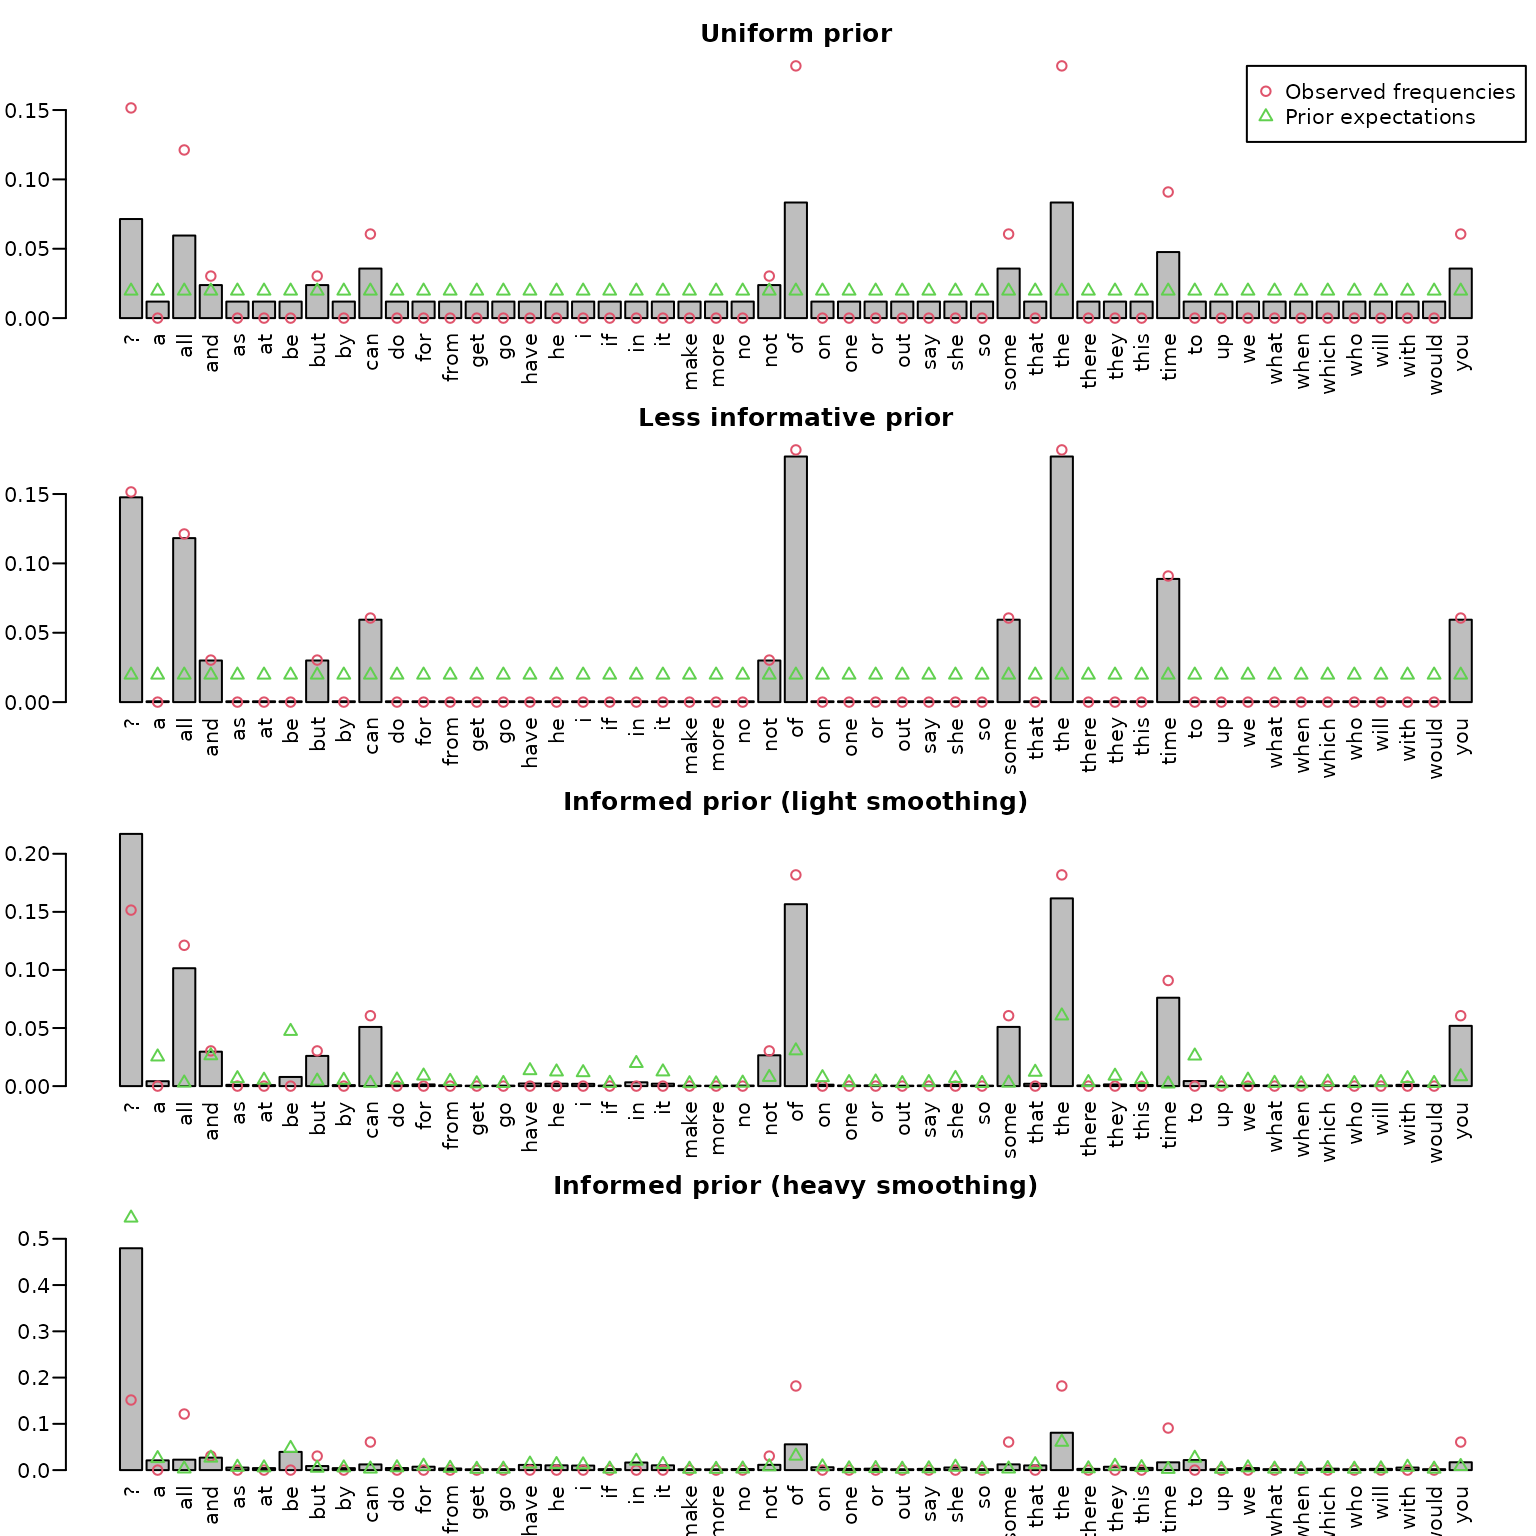
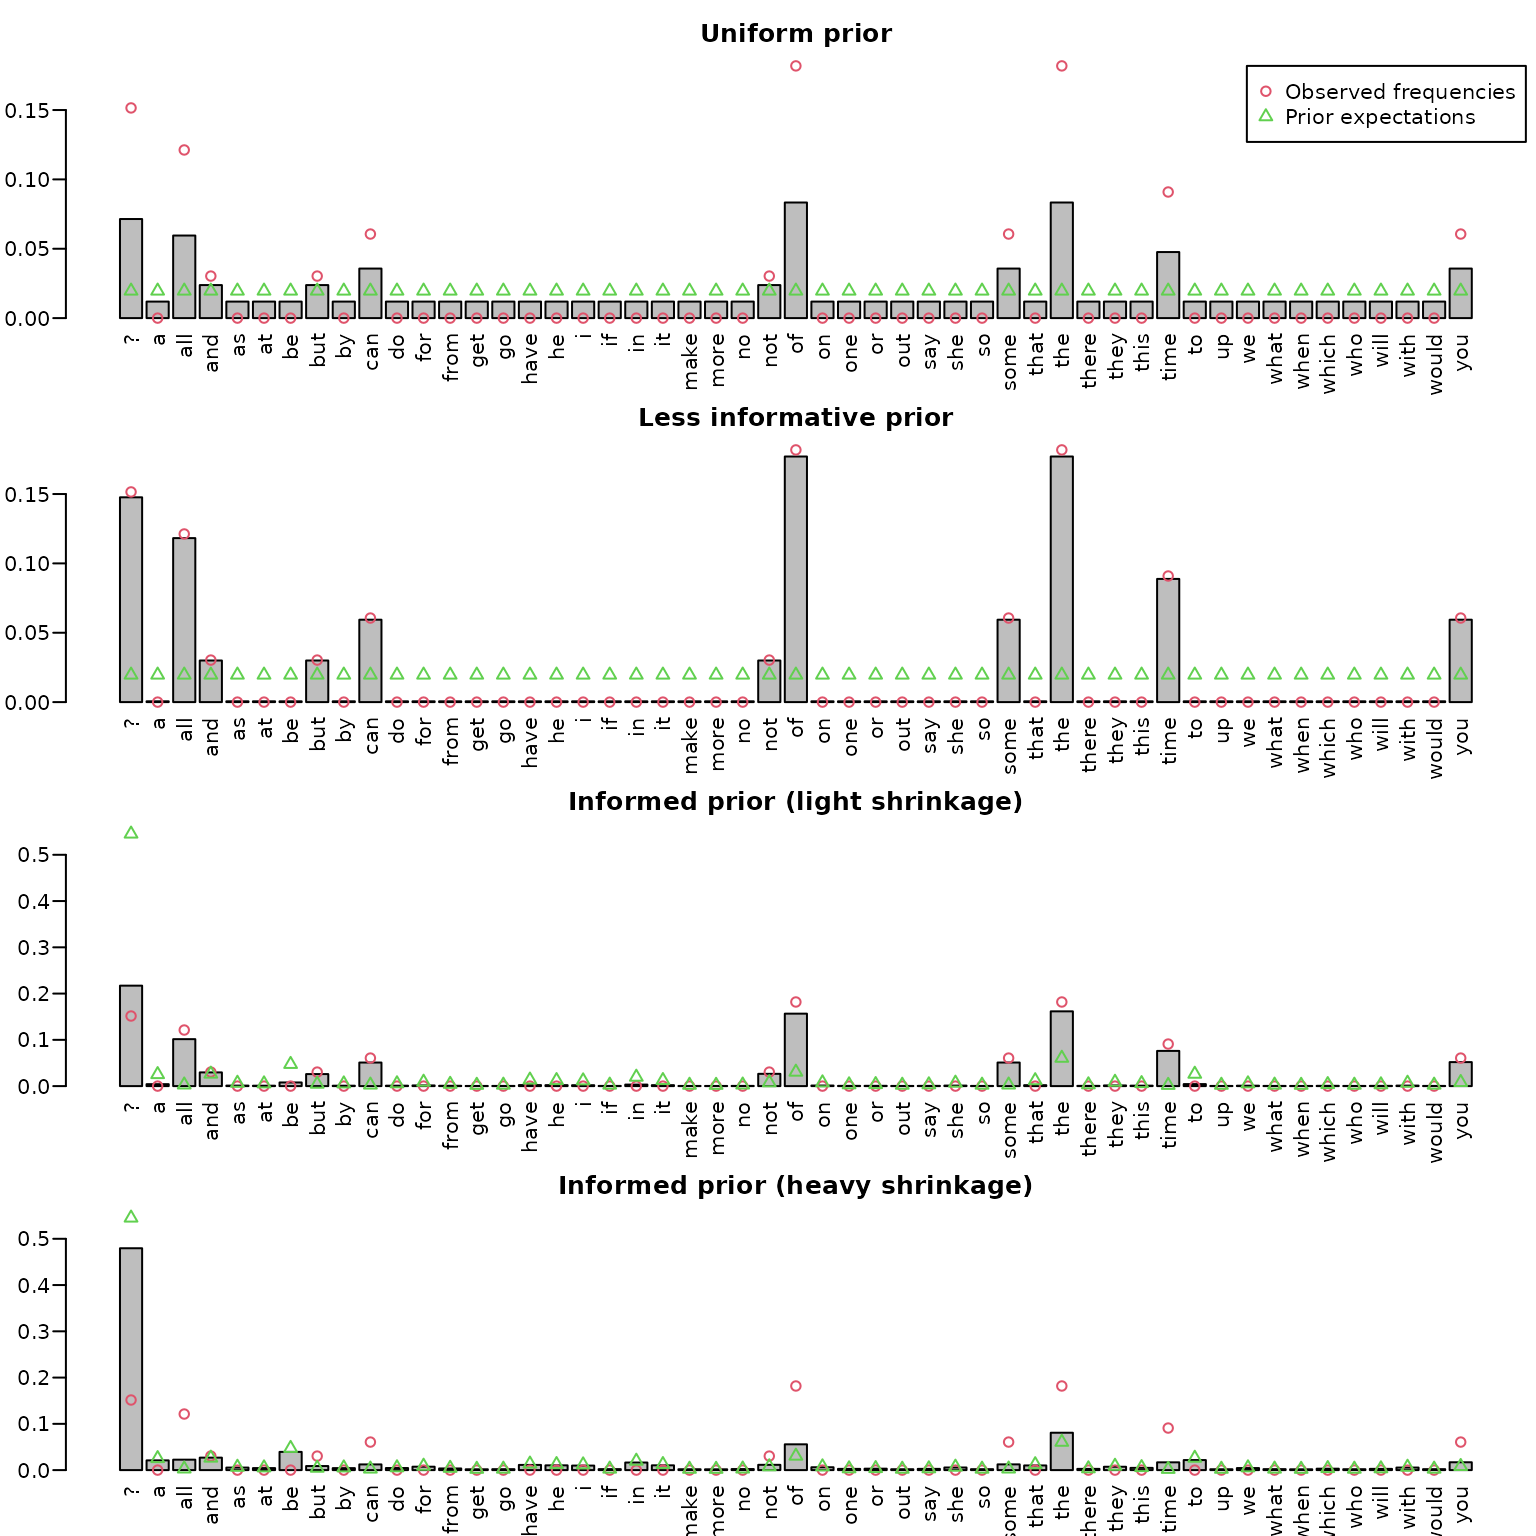
Deploying to gh-pages from @ gregorkastner/BayesianLearningCode@0169d79130a247fa5898df61fa52b95e505494d5 🚀

diff --git a/articles/Chapter03.html b/articles/Chapter03.html
@@ -610,7 +610,7 @@ the new pseudo-counts.</p>
 <span></span>
 <span><span class="va">post_informed_unnormalized</span> <span class="op">&lt;-</span> <span class="va">gamma0</span> <span class="op">+</span> <span class="va">counts</span></span>
 <span><span class="va">post_informed</span> <span class="op">&lt;-</span> <span class="va">post_informed_unnormalized</span> <span class="op">/</span> <span class="fu"><a href="https://rdrr.io/r/base/sum.html" class="external-link">sum</a></span><span class="op">(</span><span class="va">post_informed_unnormalized</span><span class="op">)</span></span></code></pre></div>
-<p>Alternatively, we might want to prefer heavier smoothing with respect
+<p>Alternatively, we might want to prefer heavier shrinkage with respect
 to the base rate (here, the overall word distribution in the English
 language). This can simply be accomplished by increasing the total
 number of pseudo-counts
@@ -644,16 +644,16 @@ circles.</p>
 <span><span class="fu"><a href="https://rdrr.io/r/graphics/title.html" class="external-link">title</a></span><span class="op">(</span><span class="st">"Less informative prior"</span><span class="op">)</span></span>
 <span></span>
 <span><span class="va">midpts</span> <span class="op">&lt;-</span> <span class="fu"><a href="https://rdrr.io/r/graphics/barplot.html" class="external-link">barplot</a></span><span class="op">(</span><span class="va">post_informed</span>, las <span class="op">=</span> <span class="fl">2</span>,</span>
-<span>                   ylim <span class="op">=</span> <span class="fu"><a href="https://rdrr.io/r/base/c.html" class="external-link">c</a></span><span class="op">(</span><span class="fl">0</span>, <span class="fu"><a href="https://rdrr.io/r/base/Extremes.html" class="external-link">max</a></span><span class="op">(</span><span class="va">counts</span><span class="op">/</span><span class="va">N</span>, <span class="va">post_informed</span><span class="op">)</span><span class="op">)</span><span class="op">)</span></span>
+<span>                   ylim <span class="op">=</span> <span class="fu"><a href="https://rdrr.io/r/base/c.html" class="external-link">c</a></span><span class="op">(</span><span class="fl">0</span>, <span class="fu"><a href="https://rdrr.io/r/base/Extremes.html" class="external-link">max</a></span><span class="op">(</span><span class="va">counts</span><span class="op">/</span><span class="va">N</span>, <span class="va">post_informed</span>, <span class="va">freq</span><span class="op">/</span><span class="fl">10</span><span class="op">^</span><span class="fl">8</span><span class="op">)</span><span class="op">)</span><span class="op">)</span></span>
 <span><span class="fu"><a href="https://rdrr.io/r/graphics/points.html" class="external-link">points</a></span><span class="op">(</span><span class="va">midpts</span>, <span class="va">counts</span><span class="op">/</span><span class="va">N</span>, col <span class="op">=</span> <span class="fl">2</span>, pch <span class="op">=</span> <span class="fl">1</span><span class="op">)</span></span>
 <span><span class="fu"><a href="https://rdrr.io/r/graphics/points.html" class="external-link">points</a></span><span class="op">(</span><span class="va">midpts</span>, <span class="va">freq</span> <span class="op">/</span> <span class="fl">10</span><span class="op">^</span><span class="fl">8</span>, col <span class="op">=</span> <span class="fl">3</span>, pch <span class="op">=</span> <span class="fl">2</span><span class="op">)</span></span>
-<span><span class="fu"><a href="https://rdrr.io/r/graphics/title.html" class="external-link">title</a></span><span class="op">(</span><span class="st">"Informed prior (light smoothing)"</span><span class="op">)</span></span>
+<span><span class="fu"><a href="https://rdrr.io/r/graphics/title.html" class="external-link">title</a></span><span class="op">(</span><span class="st">"Informed prior (light shrinkage)"</span><span class="op">)</span></span>
 <span></span>
 <span><span class="va">midpts</span> <span class="op">&lt;-</span> <span class="fu"><a href="https://rdrr.io/r/graphics/barplot.html" class="external-link">barplot</a></span><span class="op">(</span><span class="va">post_informed2</span>, las <span class="op">=</span> <span class="fl">2</span>,</span>
-<span>                   ylim <span class="op">=</span> <span class="fu"><a href="https://rdrr.io/r/base/c.html" class="external-link">c</a></span><span class="op">(</span><span class="fl">0</span>, <span class="fu"><a href="https://rdrr.io/r/base/Extremes.html" class="external-link">max</a></span><span class="op">(</span><span class="va">counts</span><span class="op">/</span><span class="va">N</span>, <span class="va">post_informed2</span>, <span class="va">gamma0</span><span class="op">/</span><span class="va">N0</span><span class="op">)</span><span class="op">)</span><span class="op">)</span></span>
+<span>                   ylim <span class="op">=</span> <span class="fu"><a href="https://rdrr.io/r/base/c.html" class="external-link">c</a></span><span class="op">(</span><span class="fl">0</span>, <span class="fu"><a href="https://rdrr.io/r/base/Extremes.html" class="external-link">max</a></span><span class="op">(</span><span class="va">counts</span><span class="op">/</span><span class="va">N</span>, <span class="va">post_informed2</span>, <span class="va">freq</span><span class="op">/</span><span class="fl">10</span><span class="op">^</span><span class="fl">8</span><span class="op">)</span><span class="op">)</span><span class="op">)</span></span>
 <span><span class="fu"><a href="https://rdrr.io/r/graphics/points.html" class="external-link">points</a></span><span class="op">(</span><span class="va">midpts</span>, <span class="va">counts</span><span class="op">/</span><span class="va">N</span>, col <span class="op">=</span> <span class="fl">2</span>, pch <span class="op">=</span> <span class="fl">1</span><span class="op">)</span></span>
 <span><span class="fu"><a href="https://rdrr.io/r/graphics/points.html" class="external-link">points</a></span><span class="op">(</span><span class="va">midpts</span>, <span class="va">freq</span> <span class="op">/</span><span class="fl">10</span><span class="op">^</span><span class="fl">8</span>, col <span class="op">=</span> <span class="fl">3</span>, pch <span class="op">=</span> <span class="fl">2</span><span class="op">)</span></span>
-<span><span class="fu"><a href="https://rdrr.io/r/graphics/title.html" class="external-link">title</a></span><span class="op">(</span><span class="st">"Informed prior (heavy smoothing)"</span><span class="op">)</span></span></code></pre></div>
+<span><span class="fu"><a href="https://rdrr.io/r/graphics/title.html" class="external-link">title</a></span><span class="op">(</span><span class="st">"Informed prior (heavy shrinkage)"</span><span class="op">)</span></span></code></pre></div>
 <p><img src="Chapter03_files/figure-html/unnamed-chunk-19-1.png" width="768"></p>
 <p>In the top panel (based on the uniform prior), we can nicely see the
 <em>add-one smoothing</em> effect, whereas the second panel shows almost
